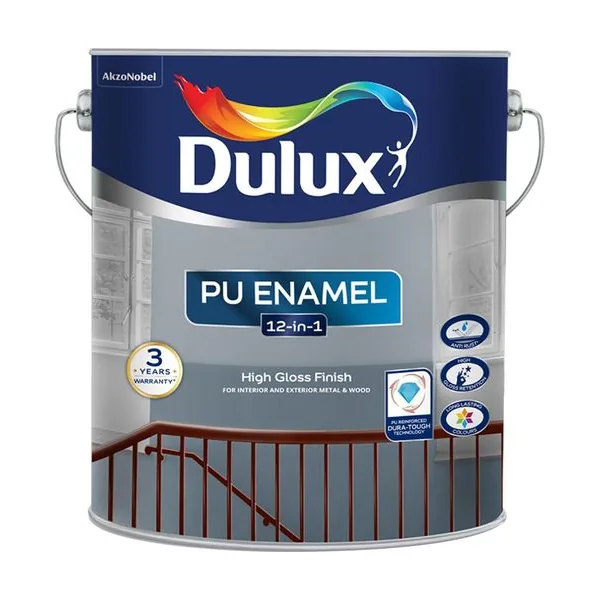
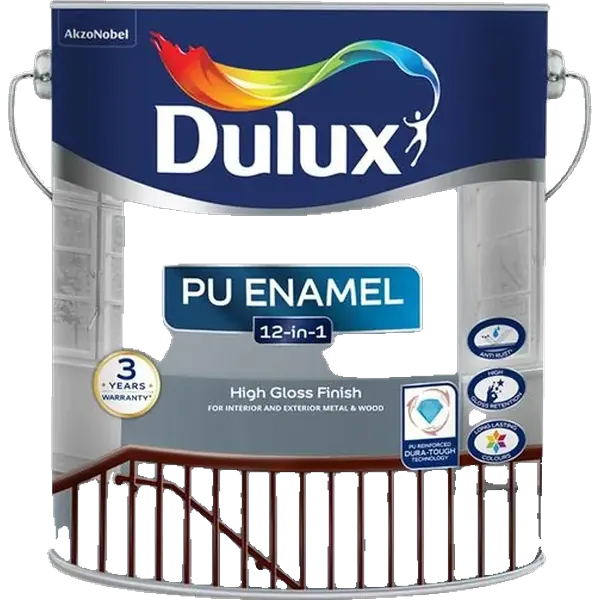
feat(po-v2): the Enamel row goes edge to edge — cut-out tins, no square, a shadow
A look preview on ONE family. Enamel's four tiles change; the other
33 are untouched byte for byte.

THE FILES. Four cut-outs verified before anything was wired: real
alpha channel, all four corners fully transparent, 600x600, 22-40KB.

  gloss.webp          34KB   15.1% of pixels fully transparent
  super-satin.webp    22KB   17.8%
  promise-enamel.webp 38KB   34.0%
  pu-enamel.webp      40KB   35.6%

⚠ Those percentages are lower than the 40-55% the brief quoted,
because I count alpha EXACTLY 0 and that figure almost certainly
counted alpha < 255 — every anti-aliased edge pixel included. All four
sit well above the "cut nothing" floor and well below "ate the tin",
so it is a definition difference, not a bad file.

They kept their existing names, so they REPLACE the four opaque tins
that were there (gloss 29KB, super-satin 20KB, promise-enamel 25KB,
pu-enamel 26KB - all recoverable from git). No alias and no code was
needed to wire them: the four slugs were already in TILE_IMAGES.

Moved with a plain mv, not git mv: they were untracked in
public/PO/board/, so there is no history to follow.

🔴 TRANSPARENT_ART IS A LIST, NOT A SNIFF. It would be one line to
check the file for an alpha channel, and that line would have been
wrong on 2026-09-10 - the PNGs refused that morning had an alpha
channel that was 100% opaque with a transparency chequerboard painted
into the pixels. Nothing about a filename, an extension or a folder
[…]

diff --git a/app/po-v2-8f4kd2/po-v2-page.tsx b/app/po-v2-8f4kd2/po-v2-page.tsx
@@ -23,6 +23,7 @@ import {
   BOARD, BRAND, BRAND_GRADIENT, BRAND_WASH, CARD_SHADOW, DIVIDER, FAINT,
   FAVOURITE, FILL, INK, MUTED, PAGE, RULE, SEARCH_BG, SURFACE, URGENT, VIOLET,
   VIOLET_BG,
+  CUTOUT_SHADOW, TRANSPARENT_ART,
   EMPTY_ORDER, boardTile, boardTileArtFor, buildBoard, buildCatalog, drawerMode,
   formatPack, mixToWhite, optionPools, packRows,
   resolveGroup, tileImage, tileKeyForMember, unitsIn, TILE_WASH,
@@ -1819,6 +1820,11 @@ export default function PoV2Page(): React.JSX.Element {
                 // placeholder glyph. A tile that says nothing reads as art that
                 // has not arrived; a tile with "CS" in it reads as a decision.
                 const src = tileImage(tile.slug);
+                // A LOOKUP, NOT A SNIFF — v2-data's TRANSPARENT_ART names the
+                // slugs whose file is a cut-out. Nothing about the extension
+                // or the folder says whether a background was actually
+                // removed; an opaque alpha channel looks identical from here.
+                const cut = TRANSPARENT_ART.has(tile.slug);
                 return (
                   <button
                     // 🔴 key ON THE TILE KEY, NOT A MEMBER SAP. Two merged
@@ -1838,10 +1844,30 @@ export default function PoV2Page(): React.JSX.Element {
                     {/* THE SQUARE. No border by design — the art carries the
                         tile and a hairline around 32 of them is a grid of
                         outlines. aspect-ratio holds the space before the image
-                        lands, so nothing on the board jumps as they arrive. */}
+                        lands, so nothing on the board jumps as they arrive.
+
+                        🔴 A CUT-OUT TILE HAS NO SQUARE AT ALL. See
+                        TRANSPARENT_ART in v2-data: the four Enamel tiles carry
+                        a tin on transparency, so the tinted panel behind them
+                        goes and the tin sits on the card itself.
+
+                        overflow-hidden GOES WITH IT, and has to: the tin fills
+                        the box edge to edge, so its drop-shadow falls OUTSIDE
+                        that box. Clipping would cut the shadow off exactly
+                        where it is meant to show. The rounding is inert
+                        without a background, so it goes too.
+
+                        ⚠ THE IN-CART VIOLET WASH DOES NOT RENDER ON THESE
+                        FOUR. It is a background, and they have none. The count
+                        badge in the corner is what says "in this order" on a
+                        cut-out tile — one signal instead of two. Worth an eye
+                        before this look spreads past Enamel. */}
                     <span
-                      className="relative block w-full overflow-hidden rounded-[14px]"
-                      style={{ aspectRatio: "1 / 1", background: inOrder ? VIOLET_BG : wash }}
+                      className={`relative block w-full${cut ? "" : " overflow-hidden rounded-[14px]"}`}
+                      style={{
+                        aspectRatio: "1 / 1",
+                        background: cut ? undefined : (inOrder ? VIOLET_BG : wash),
+                      }}
                     >
                       {src && (
                         <img
@@ -1853,16 +1879,27 @@ export default function PoV2Page(): React.JSX.Element {
                           loading={eager ? "eager" : "lazy"}
                           className="block h-full w-full"
                           style={{
+                            // contain, and the file is already square, so this
+                            // is an exact fill — nothing insets and nothing
+                            // stretches.
                             objectFit: "contain",
-                            // 🔴 MULTIPLY, NOT A PLAIN PAINT. Every file is an
-                            // OPAQUE WHITE square — that is how the converter
-                            // pads the tin to a uniform 84% share. Painted
-                            // normally it would cover the family wash entirely
-                            // and every tile would be a white box. Multiply
-                            // leaves the backdrop untouched wherever the file
-                            // is white and shows the tin everywhere else, so
-                            // the tint survives and the tin sits ON it.
-                            mixBlendMode: "multiply",
+                            // 🔴 MULTIPLY, NOT A PLAIN PAINT — FOR AN OPAQUE
+                            // FILE. Those are OPAQUE WHITE squares: the
+                            // converter pads the tin to a uniform 84% share, so
+                            // painted normally the file would cover the family
+                            // wash and every tile would be a white box.
+                            // Multiply leaves the backdrop wherever the file is
+                            // white and shows the tin everywhere else.
+                            //
+                            // 🔴 AND IT MUST NOT TOUCH A CUT-OUT. There is no
+                            // white ground to drop out, so multiply would just
+                            // darken the tin against the card — the pixels are
+                            // the product, not a backdrop.
+                            mixBlendMode: cut ? undefined : "multiply",
+                            // Follows the tin's outline because drop-shadow
+                            // reads alpha; a box-shadow would draw the very
+                            // rectangle this change removes. See CUTOUT_SHADOW.
+                            filter: cut ? CUTOUT_SHADOW : undefined,
                           }}
                         />
                       )}

diff --git a/app/po-v2-8f4kd2/v2-data.ts b/app/po-v2-8f4kd2/v2-data.ts
@@ -532,6 +532,63 @@ const TILE_ART_ALIAS: ReadonlyMap<string, string> = new Map([
   ["coats-additives", "product-fbc-advance"],
 ]);
 
+/**
+ * ═══════════════════════════════════════════════════════════════════════════
+ * 🔴 WHICH TILES CARRY A CUT-OUT INSTEAD OF A PADDED WHITE SQUARE.
+ *
+ * A LIST, NOT A GUESS. It would be one line to sniff the file, and that line
+ * would be wrong the first time somebody exported a webp with an alpha channel
+ * that happens to be fully opaque — which is exactly what arrived on
+ * 2026-09-10 and was refused. Nothing about a filename or an extension tells
+ * you whether the background was actually removed. So the answer is written
+ * down, one slug at a time, by somebody who checked.
+ *
+ * Membership changes THREE things, and only for the tiles named here:
+ *   1. the pale family-tint square behind the image does not render
+ *   2. mixBlendMode: multiply does not apply — it would darken a cut-out
+ *      against the card instead of dropping out a white ground
+ *   3. the image gets a two-layer drop-shadow, so the shadow follows the
+ *      tin's OUTLINE rather than a rectangle
+ *
+ * The other 33 tiles are untouched, byte for byte.
+ *
+ * ⚠ THE FILE AND THE SET MOVE TOGETHER. Putting an opaque file at one of
+ * these slugs paints a white square on the card with a shadow around it;
+ * putting a cut-out at a slug NOT listed here multiplies it into the family
+ * tint and it will look muddy. If you swap one, swap both.
+ *
+ * ENAMEL ONLY, 2026-09-10, and deliberately — this is a look the owner is
+ * comparing against the other eight families on one screen. Do not extend it
+ * until he has seen it.
+ * ═══════════════════════════════════════════════════════════════════════════
+ */
+export const TRANSPARENT_ART: ReadonlySet<string> = new Set([
+  "gloss",
+  "super-satin",
+  "promise-enamel",
+  "pu-enamel",
+]);
+
+/**
+ * 🔴 THE SHADOW IS A filter, NOT A box-shadow, AND THAT IS THE WHOLE POINT.
+ *
+ * box-shadow traces the element's BOX. On a tile whose image is a cut-out on
+ * transparency, that draws a rectangle floating behind a tin — the exact
+ * "sticker on a square" this change exists to remove. drop-shadow() reads the
+ * alpha channel and follows the tin's own outline, handle and all.
+ *
+ * TWO LAYERS, because one cannot do both jobs. The tight one at 1.5px/2px is
+ * CONTACT — it sits the tin on the card. The wide one at 4px/6.5px is LIFT —
+ * it gives the object somewhere to be. One shadow doing both is either too
+ * hard at the edge or too vague underneath, and reads as cheap.
+ *
+ * Values approved from the owner's preview. #181426 rather than black: the
+ * app's neutrals carry a violet tint (see the token block at the top of this
+ * file) and a pure-black shadow under them reads as a smudge.
+ */
+export const CUTOUT_SHADOW =
+  "drop-shadow(0 1.5px 2px rgba(24,20,38,0.35)) drop-shadow(0 4px 6.5px rgba(24,20,38,0.21))";
+
 /** The tile's image URL, or null when there is no file for that slug. */
 export function tileImage(slug: string): string | null {
   const file = TILE_ART_ALIAS.get(slug) ?? slug;
